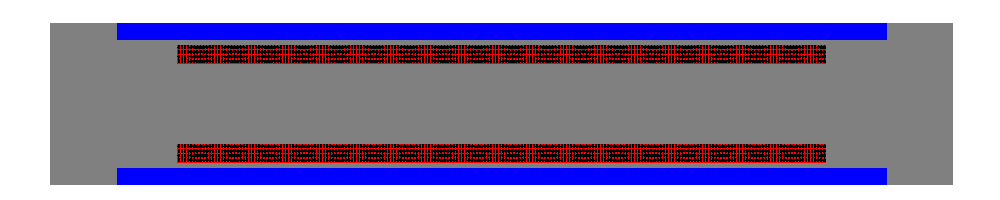
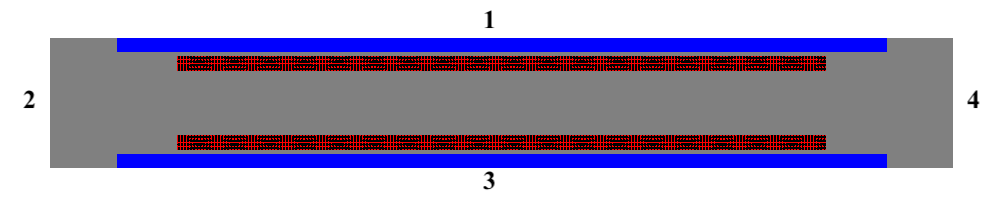
katy edits

diff --git a/docs/realm-demo.tex b/docs/realm-demo.tex
@@ -10,17 +10,29 @@ results, and plots shown in this chapter \cite{chee_dissertation-results_2021}.
 
 \section{REALM Optimization: AHTR Fuel Slab}
 \label{sec:realm_opt_ahtr_slab}
-\subsection{Problem Definition}
-This demonstration explores how inhomogeneous fuel distributions impact $k_{eff}$ 
-compared with homogenous fuel distributions customary in most reactor designs. 
+This demonstration problem explores how heterogenous fuel distributions impact 
+$k_{eff}$ compared with homogenous fuel distributions customary in most reactor 
+designs. 
 I use OpenMC v0.12.0 for these neutronics calculations with the ENDF/B-VII.1
 data library \cite{chadwick_endf/b-vii.1_2011}. 
-The reactor core explored is a straightened slab from the \gls{FHR} benchmark's
+
+\subsection{Problem Definition}
+The reactor core explored is a single fuel slab from the \gls{FHR} benchmark
 \gls{AHTR} design.
-Figure \ref{fig:straightened_slab} illustrates the straightened fuel slab. 
+I modified the fuel slab to be straightened with perpendicular sides, instead 
+of slanted as in Figure \ref{fig:ahtr-fuel-plank}. 
+Figure \ref{fig:straightened_slab} illustrates the straightened fuel slab with 
+periodic boundary conditions in the x-y axis. 
+The periodic surfaces are: 1-3, 2-4. 
 \begin{figure}[]
     \centering
-    \includegraphics[width=\linewidth]{straightened_slab.png}
+    \includegraphics[width=0.85\linewidth]{straightened_slab.png}
+    \begin{tikzpicture}
+        \draw[ thick,-latex] (0,0) -- (1,0) node[anchor=south west] {$x$};
+        \draw[ thick,-latex] (0,0) -- (0,1) node[anchor=south west] {$y$};
+        \draw[ thick,-latex] (0,0) -- (1,1) node[anchor=south west] {$z$};
+       \tkzText[above](-0.3,-0.7){}
+       \end{tikzpicture} 
     \raggedright
     \resizebox{0.3\textwidth}{!}{
         \hspace{1cm}
@@ -34,21 +46,20 @@ Figure \ref{fig:straightened_slab} illustrates the straightened fuel slab.
     \caption{Straightened \acrfull{AHTR} fuel slab.}
     \label{fig:straightened_slab}
 \end{figure}
-The slab has $27.1 \times 3.25 \times 1.85\ cm^3$ dimensions
-with periodic boundary conditions in the x-y axis and reflective 
-boundary conditions in the z axis. 
-I use the same materials as in the \gls{FHR} benchmark, except for 
-the homogenization of each \gls{TRISO} particle's four outer layers: 
+The slab has $27.1 \times 3.25 \times 1.85\ cm^3$ dimensions with reflective 
+top and bottom (along z-axis) boundary conditions.
+I use the same materials as in the \gls{FHR} benchmark, except that I homogenized 
+each \gls{TRISO} particle's four outer layers: 
 porous carbon buffer, inner pyrolytic carbon, silicon carbide layer, and the 
 outer pyrolytic carbon. 
-The \gls{TRISO} particles' dimensions remain the same.
+The \gls{TRISO} particle dimensions remain the same.
 Table \ref{tab:keff_triso} reports the $k_{eff}$ for this original straightened 
 \gls{AHTR} configuration with and without the outer layer \gls{TRISO} 
 homogenization.
 \begin{table}[]
     \centering
     \onehalfspacing
-    \caption{Straightened \acrfull{AHTR} fuel slab's $k_{eff}$ for case with 
+    \caption{Straightened \acrfull{AHTR} fuel slab $k_{eff}$ for case with 
     no \gls{TRISO} homogenization and case with homogenization of the four outer 
     layers. Both simulations were run on one BlueWaters XE Node.}
 	\label{tab:keff_triso}
@@ -66,8 +77,8 @@ The \gls{TRISO} particle outer four-layer homogenization resulted in a $30\%$
 speed-up without compromising accuracy with $k_{eff}$ values within each 
 other's uncertainty.
 
-The \gls{REALM} optimization problem's objective is to maximize the slab's 
-$k_{eff}$ by varying the \gls{TRISO} particle packing fraction across the slab
+The \gls{REALM} optimization objective aims to maximize the slab $k_{eff}$. 
+It does so by varying the \gls{TRISO} particle packing fraction across the slab
 while keeping the total packing fraction constant at 0.0979. 
 This total packing fraction is consistent with the original straightened slab with 
 TRISO particles in fuel stripes (Figure \ref{fig:straightened_slab}). 
@@ -98,10 +109,10 @@ axis view with packing fraction varying based on this sine distribution.
 \begin{figure}[]
     \centering
     \makebox[\textwidth][c]{\includegraphics[width=1.1\linewidth]{triso_distribution_sine.png}} 
-    \caption{Below: $PF(x) = (0.5\ sin(\frac{\pi}{3}x + \pi) + 2)  \times NF$ 
-    sine distribution with red points indicating the packing fraction at each slice. 
-    Above: Straightened \acrfull{AHTR} fuel slab with varying \gls{TRISO} particle 
-    distribution across ten slices based on the sine distribution. }
+    \caption{Above: Straightened \acrfull{AHTR} fuel slab with varying \gls{TRISO} particle 
+    distribution across ten slices based on the sine distribution. 
+    Below: $PF(x) = (0.5\ sin(\frac{\pi}{3}x + \pi) + 2)  \times NF$ 
+    sine distribution with red points indicating the packing fraction at each slice. }
     \label{fig:triso_distribution}
 \end{figure}
 
@@ -109,12 +120,12 @@ In \gls{REALM}, a genetic algorithm varies the $a$, $b$, and $c$ variables to
 find a combination that produces a packing fraction distribution that maximizes 
 the slab's $k_{eff}$. 
 I defined $a$, $b$, and $c$'s upper and lower bounds as: 
-\begin{itemize}
-    \item 0 $<$ $a$ $<$ 2 
-    \item 0 $<$ $b$ $<$ $\frac{\pi}{2}$
-    \item 0 $<$ $c$ $<$ $2\pi$
-\end{itemize}
-I selected $a$ variable's bounds to keep the sine distribution from falling 
+\begin{align*}
+    0 <\ &a < 2 \\
+    0 <\ &b < \frac{\pi}{2} \\
+    0 <\ &c < 2 \pi
+\end{align*}
+The bounds of $a$ keep the sine distribution from falling 
 below zero. 
 The $b$ and $c$ variable bounds spread wide enough to allow the genetic 
 algorithm to explore various sine distributions. 
@@ -176,8 +187,8 @@ Subsequently, \gls{REALM} runs the templated OpenMC script to generate $k_{eff}$
 
 \subsection{Hyperparameter Search}
 \label{sec:hyperparameter_search}
-In \gls{REALM}'s input file, the user defines the genetic algorithm's 
-hyperparameters. 
+In a \gls{REALM} input file, the user defines hyperparameters for the genetic 
+algorithm.
 A good hyperparameter set guides the optimization process by 
 balancing exploitation and exploration to find an optimal solution quickly 
 and accurately. 
@@ -191,7 +202,7 @@ number of individuals, selection operator's tournament size, mutation operator,
 and mating operator.  
 I started with 25 coarse experiments and fine-tuned the hyperparameters
 with 15 more experiments. 
-For each genetic algorithm experiment, I held the number of OpenMC evaluations 
+For each genetic algorithm experiment, the number of OpenMC evaluations remained
 constant at 600.
 The number of evaluations correlated the population size and number of generations. 
 I randomly sampled population size and used the following equation to calculate 
@@ -200,7 +211,7 @@ the number of generations:
     \mbox{no. of generations} &= \frac{\mbox{no. of evaluations}}{\mbox{population size} }
 \end{align}
 Table \ref{tab:hyperparameter_search} shows the lower and upper bounds used 
-for each hyperparameter's random sampling. 
+for randomly sampling each hyperparameter.
 \begin{table}[]
     \centering
     \onehalfspacing
@@ -230,25 +241,25 @@ for each hyperparameter's random sampling.
 The initial 25 coarse experiments' sought to narrow down the hyperparameters 
 to find a smaller set of hyperparameter bounds that produce higher $k_{eff}$ values.
 Figure \ref{fig:hyperparameter_sens} shows the hyperparameters' plotted against 
-each other with a third color dimension representing the $k_{eff ave}$ 
-value in each experiment's final generation. 
-Lighter scatter points indicate higher final population $k_{eff ave}$ values, 
+each other with a third color dimension representing the average $k_{eff}$ value
+($\overline{k_{eff}}$) in each experiment's final generation. 
+Lighter scatter points indicate higher final population $\overline{k_{eff}}$ values, 
 which suggests better hyperparameter sets. 
 \begin{figure}[]
     \centering
     \makebox[\textwidth][c]{\includegraphics[width=1.3\linewidth]{hyperparameter_sens.png}} 
     \caption{Coarse hyperparameters search's results. Hyperparameter values are plotted 
     against each other with a third color dimension representing each experiment's 
-    final population's $k_{eff ave}$.}
+    final population's $\overline{k_{eff}}$.}
     \label{fig:hyperparameter_sens}
 \end{figure}
 I plotted the hyperparameters against each other to visualize the interdependence 
 between hyperparameters. 
 From the coarse hyperparameter search, I noticed the following trends: 
 \begin{itemize}
-    \item Mutation probability has a higher $k_{eff ave}$, between 0.2 and 0.4. 
-    \item Mating probability has a higher $k_{eff ave}$, between 0.1 and 0.3. 
-    \item Population size has a higher $k_{eff ave}$, between 20 and 60. 
+    \item Mutation probability has a higher $\overline{k_{eff}}$, between 0.2 and 0.4. 
+    \item Mating probability has a higher $\overline{k_{eff}}$, between 0.1 and 0.3. 
+    \item Population size has a higher $\overline{k_{eff}}$, between 20 and 60. 
     \item No obvious interdependence between hyperparameters. 
 \end{itemize} 
 
@@ -265,19 +276,19 @@ From these results, I conducted a second fine search with five experiments
 \ref{tab:hyperparameter_search}'s \textit{Fine Search 2 Bounds} column. 
 I determined these new hyperparameter bounds based on these reasons: 
 \begin{itemize}
-    \item Mutation probability has a higher $k_{eff ave}$, between 0.2 and 0.3.
-    \item I overlooked $k_{eff ave}$  peaking at mating probability between 
+    \item Mutation probability has a higher $\overline{k_{eff}}$, between 0.2 and 0.3.
+    \item I overlooked $\overline{k_{eff}}$  peaking at mating probability between 
     0.45 and 0.6 in the previous \textit{Fine Search 1}, thus shifted the bounds. 
-    \item The highest $k_{eff ave}$ occurred for \texttt{selTournament}. 
+    \item The highest $\overline{k_{eff}}$ occurred for \texttt{selTournament}. 
     \item I narrowed down mating operator options to \texttt{cxBlend} and 
-    \texttt{cxOnePoint} since they had higher $k_{eff ave}$. 
+    \texttt{cxOnePoint} since they had higher $\overline{k_{eff}}$. 
     \item I selected arbitrary numbers for population size, 
     selection individuals, and tournament size since they did not 
-    correlate with $k_{eff ave}$ values. 
+    correlate with $\overline{k_{eff}}$ values. 
 \end{itemize}
 Figure \ref{fig:input_hyperparameters_sens} shows the relationship between 
 hyperparameter values and $a$, $b$, $c$ control parameters, final generation 
-$k_{eff max}$, and final generation $k_{eff ave}$. 
+$k_{eff max}$, and final generation $\overline{k_{eff}}$. 
 The coarse experiments' scatter points are $50\%$ transparent, while the fine 
 experiments' scatter points are opaque. 
 \begin{figure}[]
@@ -286,32 +297,34 @@ experiments' scatter points are opaque.
     \caption{Hyperparameters search's results for all 40 experiments (coarse 
     and fine). I plotted the hyperparameters against: a,b,c control parameters, 
     each experiment's final generation $k_{eff max}$, and final generation 
-    $k_{eff ave}$ with a third dimension representing each experiment's final 
-    population's $k_{eff ave}$. Coarse experiments' (0 to 24) scatter points 
+    $\overline{k_{eff}}$ with a third dimension representing each experiment's final 
+    population's $\overline{k_{eff}}$. Coarse experiments' (0 to 24) scatter points 
     are $50\%$ transparent, while the fine experiments' (24 to 39) scatter points 
     are opaque. }
     \label{fig:input_hyperparameters_sens}
 \end{figure}
 In Figure \ref{fig:input_hyperparameters_sens}, on average, the fine experiments 
-(opaque scatter points) have higher $k_{eff ave}$, which indicates that the
+(opaque scatter points) have higher $\overline{k_{eff}}$, which indicates that the
 hyperparameter search process met its objective of finding hyperparameter 
 bounds that enable quicker and more accurate optimization. 
 
 Table \ref{tab:topfive} shows the hyperparameters for the five experiments 
-with the highest final generation $k_{eff ave}$.
+with the highest final generation $\overline{k_{eff}}$.
 \begin{table}[]
     \centering
     \onehalfspacing
     \caption{Control Parameters, $k_{eff}$ results, and hyperparameter values for 
     the five hyperparameter search experiments with the highest final generation 
-    $k_{eff ave}$.}
+    $\overline{k_{eff}}$.}
 	\label{tab:topfive}
     \footnotesize
     \makebox[\textwidth][c]{\begin{tabular}{p{3cm}p{3cm}p{3cm}p{3cm}p{3cm}p{3cm}}
     \hline 
-    \textbf{Control/Output Parameters}& \textbf{Experiment 6} & \textbf{Experiment 15} & \textbf{Experiment 24} & \textbf{Experiment 36} & \textbf{Experiment 39}\\
+    & \multicolumn{5}{c}{\textbf{Experiment No.}} \\
+    \cline{2-6}
+    \textbf{Control/Output Parameters} & \textbf{6} & \textbf{15} & \textbf{24} & \textbf{36} & \textbf{39}\\
     \hline 
-    $k_{eff ave}$ [-] & 1.39876 &1.40155&1.40118&1.39906&1.40165\\ 
+    $\overline{k_{eff}}$ [-] & 1.39876 &1.40155&1.40118&1.39906&1.40165\\ 
     $k_{eff max}$ [-] & 1.40954 &1.40440&1.40365&1.40590&1.40519\\ 
     a [-] & 1.993&1.998&1.999&1.997&1.989\\
     b [$\frac{radians}{cm}$] & 0.057&0.367&0.320&0.339&0.354\\ 
@@ -337,7 +350,7 @@ produced the $k_{eff max}$ from the top five experiments.
     \makebox[\textwidth][c]{\includegraphics[width=1\linewidth]{topfive_plot.png}} 
     \caption{Packing fraction distribution across the x-axis of the \acrfull{AHTR} 
     slab for the five hyperparameter search experiments with the highest final generation 
-    $k_{eff ave}$.}
+    $\overline{k_{eff}}$.}
     \label{fig:topfiveplot}
 \end{figure}
 Four experiments had similar packing fraction distributions peaking at approximately 
@@ -360,10 +373,10 @@ The hyperparameter search ran 40 \gls{REALM} simulations, thus using approximate
 \subsection{Results for Best Hyperparameter Set}
 \label{sec:best}
 I define the best-performing hyperparameter set as the experiment that produces 
-the highest $k_{eff ave}$ in its final generation. 
+the highest $\overline{k_{eff}}$ in its final generation. 
 \textit{Fine Search 2}'s experiment 39 produces the best performing 
 hyperparameter set, shown in Table \ref{tab:topfive}, with 
-center-peaking packing fraction distribution of $k_{eff max} = 1.40519$. 
+center-peaking packing fraction distribution of $max(k_{eff}) = 1.40519$. 
 Experiment 39's $k_{eff max}$ exceeds the original straightened \gls{AHTR} 
 configuration's $k_{eff}$ by $\sim2000$pcm, proving that optimizing
 inhomogenous fuel distributions enables better neutronics. 
@@ -387,12 +400,12 @@ experiment's generations.
     \centering
     \begin{subfigure}{\textwidth}
     \makebox[\textwidth][c]{\includegraphics[width=1.1\linewidth]{keff_conv_39.png}} 
-    \caption{Minimum, average, and maximum $k_{eff}$ values evolution.}
+    \caption{Minimum, average, and maximum $k_{eff}$ value evolution.}
     \label{fig:keff_conv_39}
     \end{subfigure}
     \begin{subfigure}{\textwidth}
         \makebox[\textwidth][c]{\includegraphics[width=1.1\linewidth]{pf_39.png}} 
-        \caption{$k_{eff max}$'s packing fraction distribution evolution.}
+        \caption{$k_{eff max}$ packing fraction distribution evolution.}
         \label{fig:pf_39}
     \end{subfigure}
     \caption{ Results for each generation for \gls{REALM}'s genetic algorithm optimization 
@@ -405,7 +418,7 @@ does not occur.
 The genetic algorithm optimizes stochastically, resulting in the possibility 
 that the algorithm randomly samples a control parameter set that maximizes 
 the objective function early in the optimization process. 
-The $k_{eff ave}$ demonstrates how each generation's average $k_{eff}$
+The $\overline{k_{eff}}$ demonstrates how each generation's average $k_{eff}$
 converges towards a higher value with each generation's improvements.
 To demonstrate how the genetic algorithm optimization process usually goes, 
 Figures \ref{fig:keff_conv_15} and \ref{fig:pf_15} show the $k_{eff}$ evolution 
@@ -431,8 +444,8 @@ towards a higher $k_{eff}$ with improvements from each generation.
     \label{fig:15}
 \end{figure}
 
-Both Experiments 39 and 15 have packing fractions peaking at approximately 
-0.23 in the slab's center and decreasing to zero at the slab's sides.  
+In both Experiments 39 and 15, packing fractions peaked at approximately 
+0.23 in the slab center and decreased to zero at the sides.  
 The amplitude, $a$, for the packing fraction distribution that produced $k_{eff max}$ 
 for Experiment 39 and the other top-five experiments (Table \ref{tab:topfive}) 
 have settled at the upper bound of approximately 2. 
@@ -454,13 +467,14 @@ of the slab, proving that if the optimization problem focuses purely on the
 slab's neutronics by maximizing $k_{eff}$, the fuel tends to culminate in the 
 middle. 
 Center-peaking fuel density is nonideal for other key reactor core 
-qualities, such as good heat transfer and ensuring flat power across the core. 
+qualities, such as maximal heat transfer and minimal power peaking across the 
+core. 
 
 \section{AHTR Multiphysics Model Preliminary Work}
 \label{sec:multiphysics_homo}
 % compare TRISO particles 
-I will use the open-source simulation tool, Moltres, to conduct \gls{AHTR} 
-multiphysics simulations. 
+In the proposed PhD scope, I will use the open-source simulation tool, Moltres, 
+to conduct \gls{AHTR} multiphysics simulations. 
 Moltres, an application built atop the \gls{MOOSE} parallel finite element 
 framework \cite{gaston_moose:_2009}, contains physics kernels and boundary 
 conditions to solve arbitrary-group deterministic neutron diffusion and 
@@ -480,14 +494,14 @@ The benefits of Moltres over other multiphysics software, RELAP5 and NESTLE
   \cite{park_advancement_2020}. This is much more flexible than 
   \gls{NESTLE} and RELAP5, which only support rectangular and hexagonal assembly 
   lattices. Therefore, Moltres can explore arbitrary reactor geometries easily.
-  \item Moltres tightly couples neutronics and thermal-hydraulics, thus 
-  provides higher accuracy. 
+  \item Moltres tightly couples neutronics and thermal-hydraulics, thus providing
+    higher accuracy in some tightly coupled problems. 
   \item Moltres, a \gls{MOOSE}-based application, uses MPI for parallel computing,
   and compiles and runs on \glspl{HPC}. 
 \end{itemize}
 
 To run Moltres simulations, the user provides group constant data from a neutron 
-transport solver, such as OpenMC, for Moltres' multigroup neutron diffusion 
+transport solver, such as OpenMC, for the Moltres multigroup neutron diffusion 
 calculations and a mesh file representing the reactor geometry. 
 A TRISO-level fidelity mesh file is impractical and will result in an extremely 
 long Moltres runtime. 
@@ -597,7 +611,7 @@ The optimization process began with a coarse-to-fine random sampling
 hyperparameter search to find the genetic algorithm hyperparameters that worked 
 best. 
 Experiment 39 performed the best with a hyperparameter set that produced the 
-highest final generation $k_{eff ave}$ of 1.40165. 
+highest final generation $\overline{k_{eff}}$ of 1.40165. 
 The \gls{TRISO} particle packing fraction distribution that produced the final 
 generation's maximum $k_{eff}$ of 1.40519 peaks at the slab's center with 
 packing fraction distribution: $PF(x)=1.989\ sin(0.54x+3.143)$. 

diff --git a/docs/2021-chee-prelim.tex b/docs/2021-chee-prelim.tex
@@ -94,7 +94,6 @@ text width=22em, text centered, rounded corners, minimum height=3em]
 \usepackage{minted}
 \usepackage{booktabs}% http://ctan.org/pkg/booktabs
 \newcommand{\tabitem}{~~\llap{\textbullet}~~}
-
 % Uncomment the appropriate one of the following four lines:
 %\msthesis
 \phdthesis
